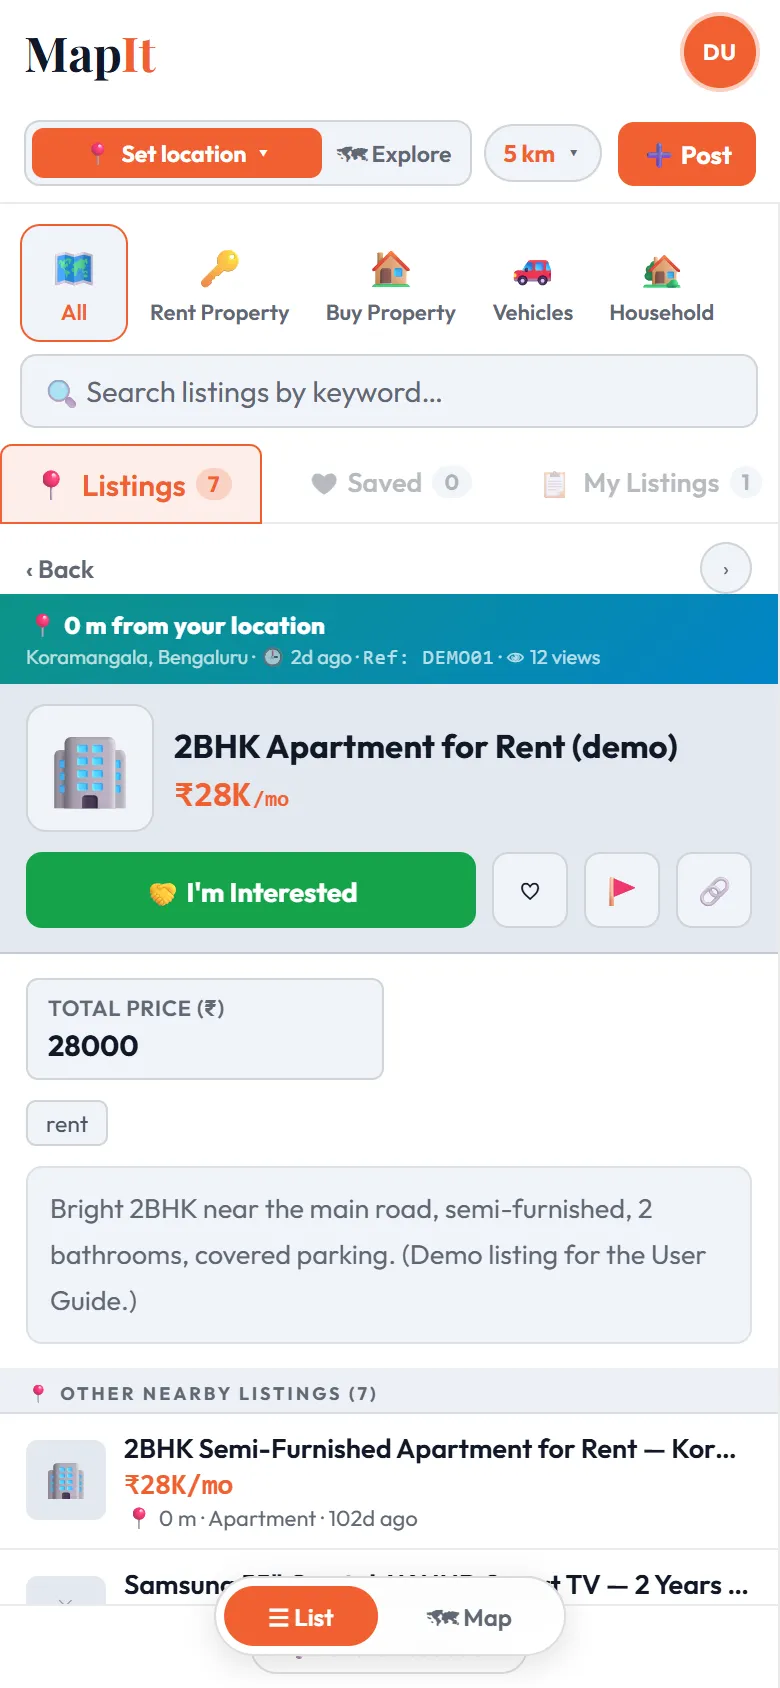
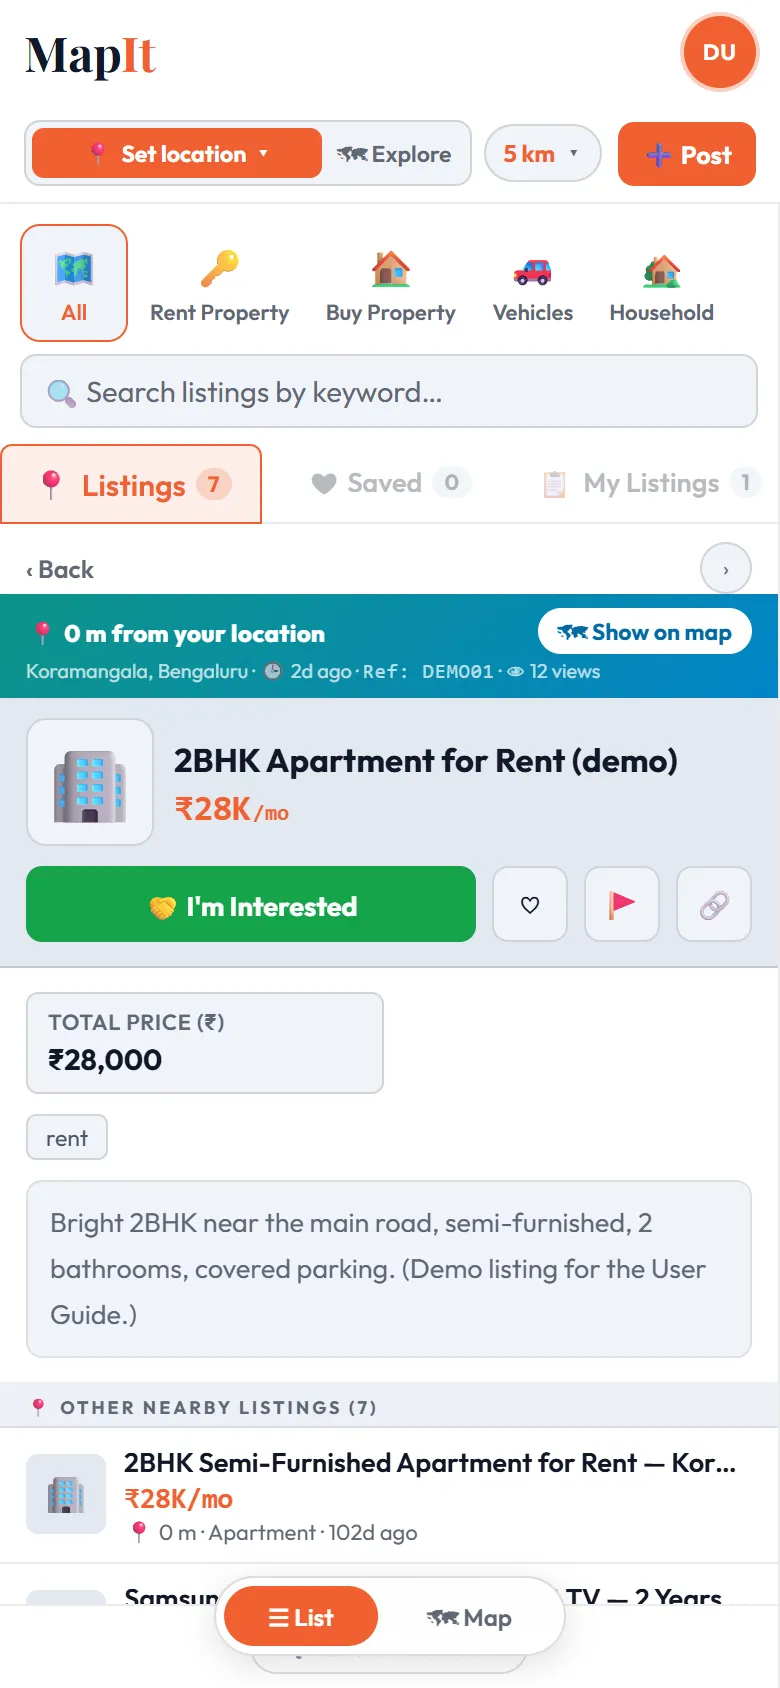
docs(guide): regenerate User Guide screenshots (Show on map, price words)

diff --git a/public/guide/shots.js b/public/guide/shots.js
@@ -3,7 +3,7 @@ window.GUIDE_SHOTS = {
  "start": {
   "w": 390,
   "h": 844,
-  "v": "muztlxdv",
+  "v": "muzvh88y",
   "marks": [
    {
     "n": 1,
@@ -17,7 +17,7 @@ window.GUIDE_SHOTS = {
  "phone": {
   "w": 390,
   "h": 844,
-  "v": "muzto1da",
+  "v": "muzvh8rc",
   "marks": [
    {
     "n": 1,
@@ -38,7 +38,7 @@ window.GUIDE_SHOTS = {
  "browse": {
   "w": 390,
   "h": 844,
-  "v": "muztm8ot",
+  "v": "muzvhiyu",
   "marks": [
    {
     "n": 2,
@@ -66,7 +66,7 @@ window.GUIDE_SHOTS = {
  "search": {
   "w": 390,
   "h": 844,
-  "v": "muztm9cp",
+  "v": "muzvhjmn",
   "marks": [
    {
     "n": 1,
@@ -87,7 +87,7 @@ window.GUIDE_SHOTS = {
  "radius": {
   "w": 390,
   "h": 844,
-  "v": "muztmbe6",
+  "v": "muzvhln7",
   "marks": [
    {
     "n": 1,
@@ -108,7 +108,7 @@ window.GUIDE_SHOTS = {
  "explore": {
   "w": 390,
   "h": 844,
-  "v": "muztmche",
+  "v": "muzvhmq8",
   "marks": [
    {
     "n": 1,
@@ -136,7 +136,7 @@ window.GUIDE_SHOTS = {
  "home": {
   "w": 390,
   "h": 844,
-  "v": "muztu4xw",
+  "v": "muzvhs3e",
   "marks": [
    {
     "n": 2,
@@ -150,12 +150,12 @@ window.GUIDE_SHOTS = {
  "view": {
   "w": 390,
   "h": 844,
-  "v": "muzts30a",
+  "v": "muzvi4in",
   "marks": [
    {
     "n": 1,
     "x": 0,
-    "y": 41.4,
+    "y": 42.2,
     "w": 100,
     "h": 8.3
    },
@@ -164,12 +164,12 @@ window.GUIDE_SHOTS = {
     "x": 0,
     "y": 34.8,
     "w": 100,
-    "h": 6
+    "h": 6.9
    },
    {
     "n": 3,
     "x": 2.6,
-    "y": 50.1,
+    "y": 50.9,
     "w": 59.2,
     "h": 5.2
    }
@@ -178,12 +178,12 @@ window.GUIDE_SHOTS = {
  "save": {
   "w": 390,
   "h": 844,
-  "v": "muzts34c",
+  "v": "muzvi4mp",
   "marks": [
    {
     "n": 1,
     "x": 62.3,
-    "y": 50.1,
+    "y": 50.9,
     "w": 11.3,
     "h": 5.2
    },
@@ -199,19 +199,19 @@ window.GUIDE_SHOTS = {
  "contact": {
   "w": 390,
   "h": 844,
-  "v": "muzts3p8",
+  "v": "muzvi57p",
   "marks": [
    {
     "n": 1,
     "x": 2.6,
-    "y": 50.1,
+    "y": 50.9,
     "w": 59.2,
     "h": 5.2
    },
    {
     "n": 2,
     "x": 0,
-    "y": 55.8,
+    "y": 56.6,
     "w": 100,
     "h": 11.7
    }
@@ -220,7 +220,7 @@ window.GUIDE_SHOTS = {
  "report": {
   "w": 390,
   "h": 844,
-  "v": "muzts4ad",
+  "v": "muzvi5sr",
   "marks": [
    {
     "n": 2,
@@ -241,7 +241,7 @@ window.GUIDE_SHOTS = {
  "post": {
   "w": 390,
   "h": 844,
-  "v": "muztp76g",
+  "v": "muzviiwx",
   "marks": [
    {
     "n": 3,
@@ -255,7 +255,7 @@ window.GUIDE_SHOTS = {
  "myads": {
   "w": 390,
   "h": 844,
-  "v": "muztnggr",
+  "v": "muzvivcz",
   "marks": [
    {
     "n": 1,
@@ -276,7 +276,7 @@ window.GUIDE_SHOTS = {
  "profile": {
   "w": 390,
   "h": 844,
-  "v": "muztnhmw",
+  "v": "muzviwip",
   "marks": [
    {
     "n": 1,
@@ -304,7 +304,7 @@ window.GUIDE_SHOTS = {
  "legal": {
   "w": 390,
   "h": 844,
-  "v": "muztnhr1",
+  "v": "muzviwmx",
   "marks": [
    {
     "n": 1,
@@ -318,7 +318,7 @@ window.GUIDE_SHOTS = {
  "feedback": {
   "w": 390,
   "h": 844,
-  "v": "muztykuv",
+  "v": "muzvix8k",
   "marks": [
    {
     "n": 2,
